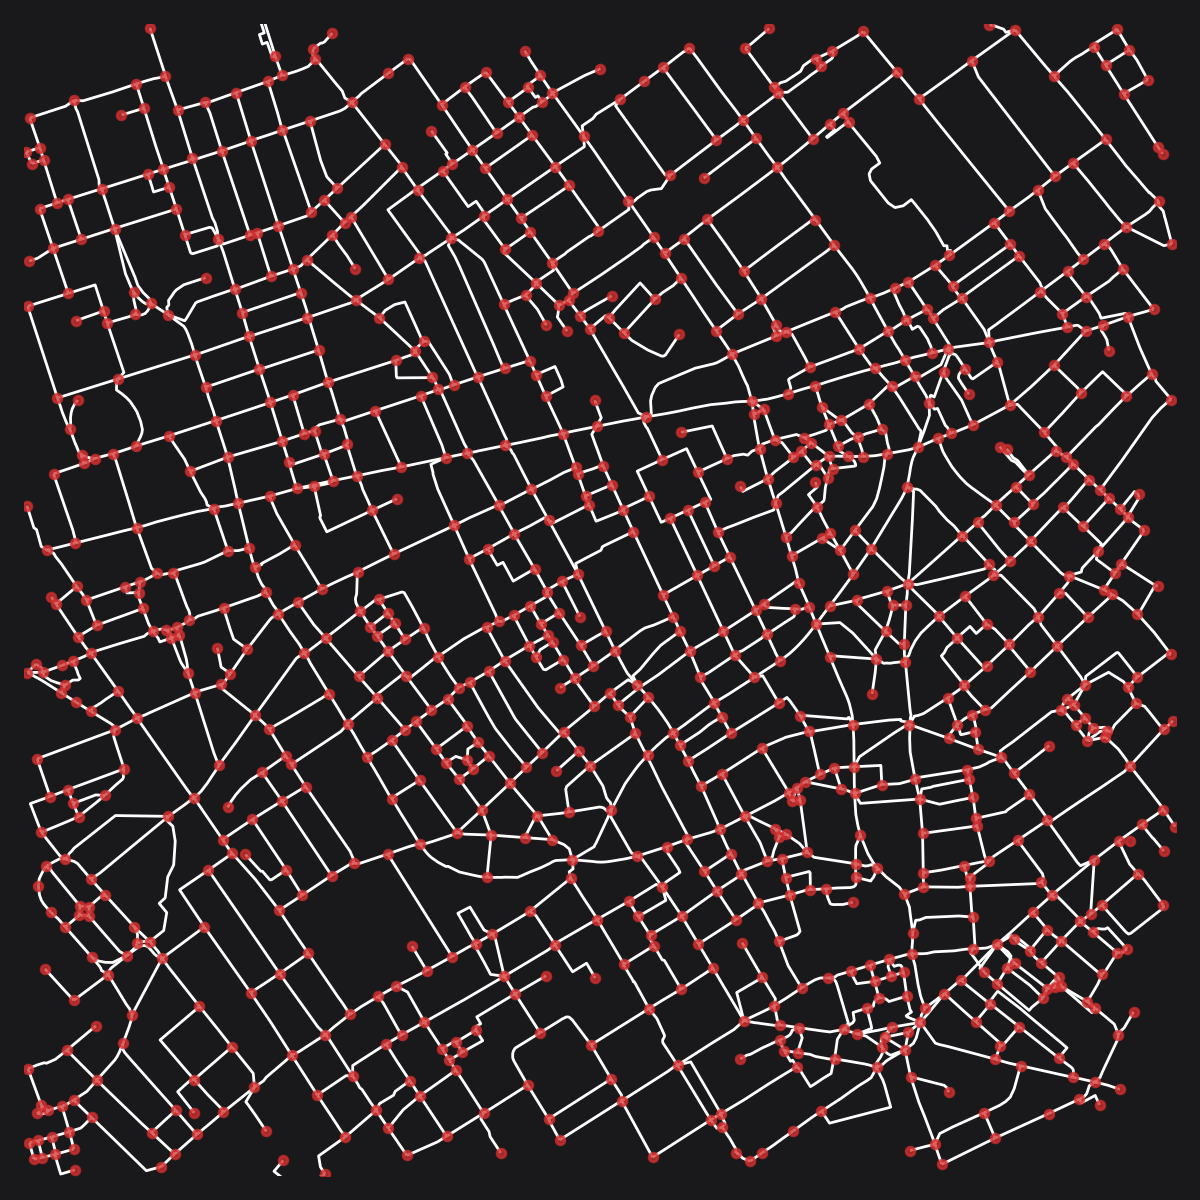
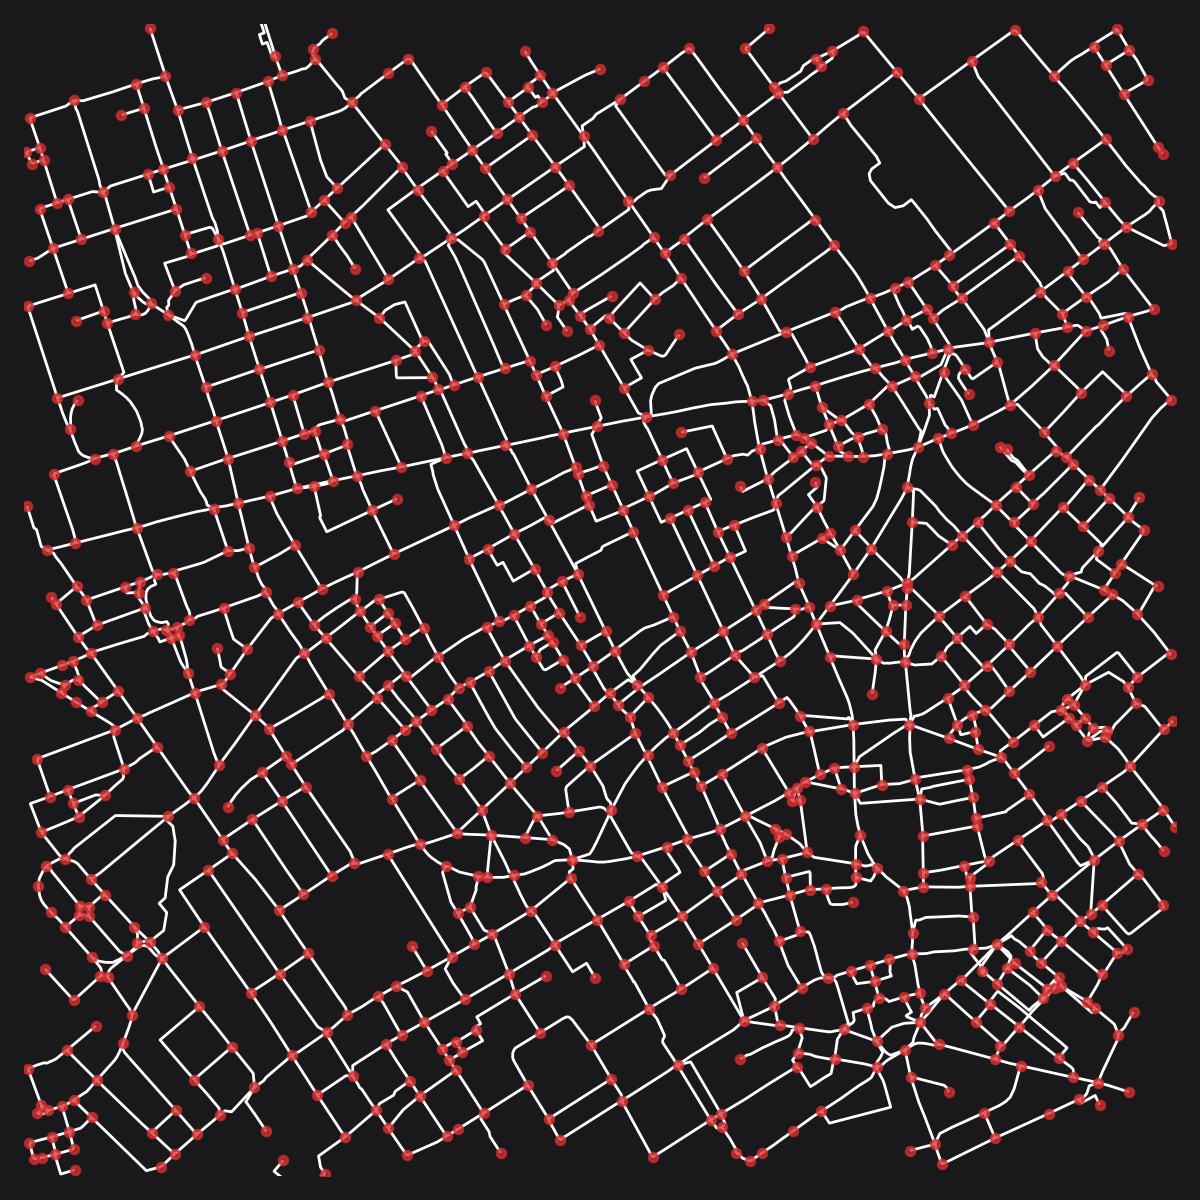
updates auto clean defaults

diff --git a/pysrc/cityseer/tools/io.py b/pysrc/cityseer/tools/io.py
@@ -257,7 +257,7 @@ def _auto_clean_network(
     green_service_roads: bool = False,
 ) -> nx.MultiGraph:
     # deduplicate by hierarchy
-    G = graphs.nx_deduplicate_edges(G)
+    G = graphs.nx_deduplicate_edges(G, dissolve_distance=20, max_ang_diff=20)
     # parks
     parks_gdf = ox.features_from_polygon(
         geom_wgs,
@@ -295,6 +295,7 @@ def _auto_clean_network(
     for start_node_key, end_node_key, edge_key, edge_data in tqdm(  # type: ignore
         G.edges(keys=True, data=True),  # type: ignore
         total=G.number_of_edges(),
+        disable=config.QUIET_MODE,
     ):
         edge_geom = edge_data["geom"]
         if "footway" in edge_data["highways"]:
@@ -475,7 +476,7 @@ def _auto_clean_network(
         )
     G = graphs.nx_remove_filler_nodes(G)
     G = graphs.nx_merge_parallel_edges(G, merge_edges_by_midline=True, contains_buffer_dist=50)
-    G = graphs.nx_iron_edges(G, min_self_loop_length=100, max_foot_tunnel_length=50)
+    G = graphs.nx_iron_edges(G, min_self_loop_length=100, max_foot_tunnel_length=100)
     # do this last to clean up any orphaned sub components
     G = graphs.nx_remove_dangling_nodes(G, despine=25)
 
@@ -708,6 +709,8 @@ def nx_from_osm(osm_json: str) -> nx.MultiGraph:
                             levels = tags["level"].split(":")
                         elif ";" in tags["level"]:
                             levels = tags["level"].split(";")
+                        elif "," in tags["level"]:
+                            levels = tags["level"].split(",")
                         else:
                             levels = [tags["level"]]
                         levels = [int(round(float(level))) for level in levels]

diff --git a/pysrc/cityseer/tools/graphs.py b/pysrc/cityseer/tools/graphs.py
@@ -562,7 +562,7 @@ def nx_iron_edges(
     nx_multigraph: MultiGraph,
     simplify_by_max_angle: int = 120,
     min_self_loop_length: int = 100,
-    max_foot_tunnel_length: int = 50,
+    max_foot_tunnel_length: int = 100,
 ) -> MultiGraph:
     """
     Simplifies edges.
@@ -577,7 +577,7 @@ def nx_iron_edges(
     min_self_loop_length: int
         Maximum self loop length to permit for a given edge.
     max_foot_tunnel_length: int
-        Maximum tunnel length to permit for non motorised edges.
+        Maximum tunnel length to permit for non motorised edges. Default of 100m.
 
     Returns
     -------
@@ -646,7 +646,7 @@ _MOTORISED_HWYS = set(
         "tertiary",
         "tertiary_link",
         "residential",
-        "living_street",
+        # "living_street",  # intentional - e.g. barcelona
         # "service",  # intentional
     ]
 )
@@ -654,7 +654,7 @@ _MOTORISED_HWYS = set(
 
 def nx_deduplicate_edges(
     nx_multigraph: MultiGraph,
-    dissolve_distance: int = 12,
+    dissolve_distance: int = 20,
     max_ang_diff: int = 20,
 ) -> MultiGraph:
     """
@@ -670,7 +670,7 @@ def nx_deduplicate_edges(
         A `networkX` `MultiGraph` in a projected coordinate system, containing `x` and `y` node attributes, and `geom`
         edge attributes containing `LineString` geoms.
     dissolve_distance: int
-        A distance to use when searching for adjacent edges. 12m by default.
+        A distance to use when searching for adjacent edges. 20m by default.
     max_ang_diff: int
          Only count a nearby adjacent edge as duplicitous if the angular difference between edges is less than
          `max_ang_diff`. 20 degrees by default.
